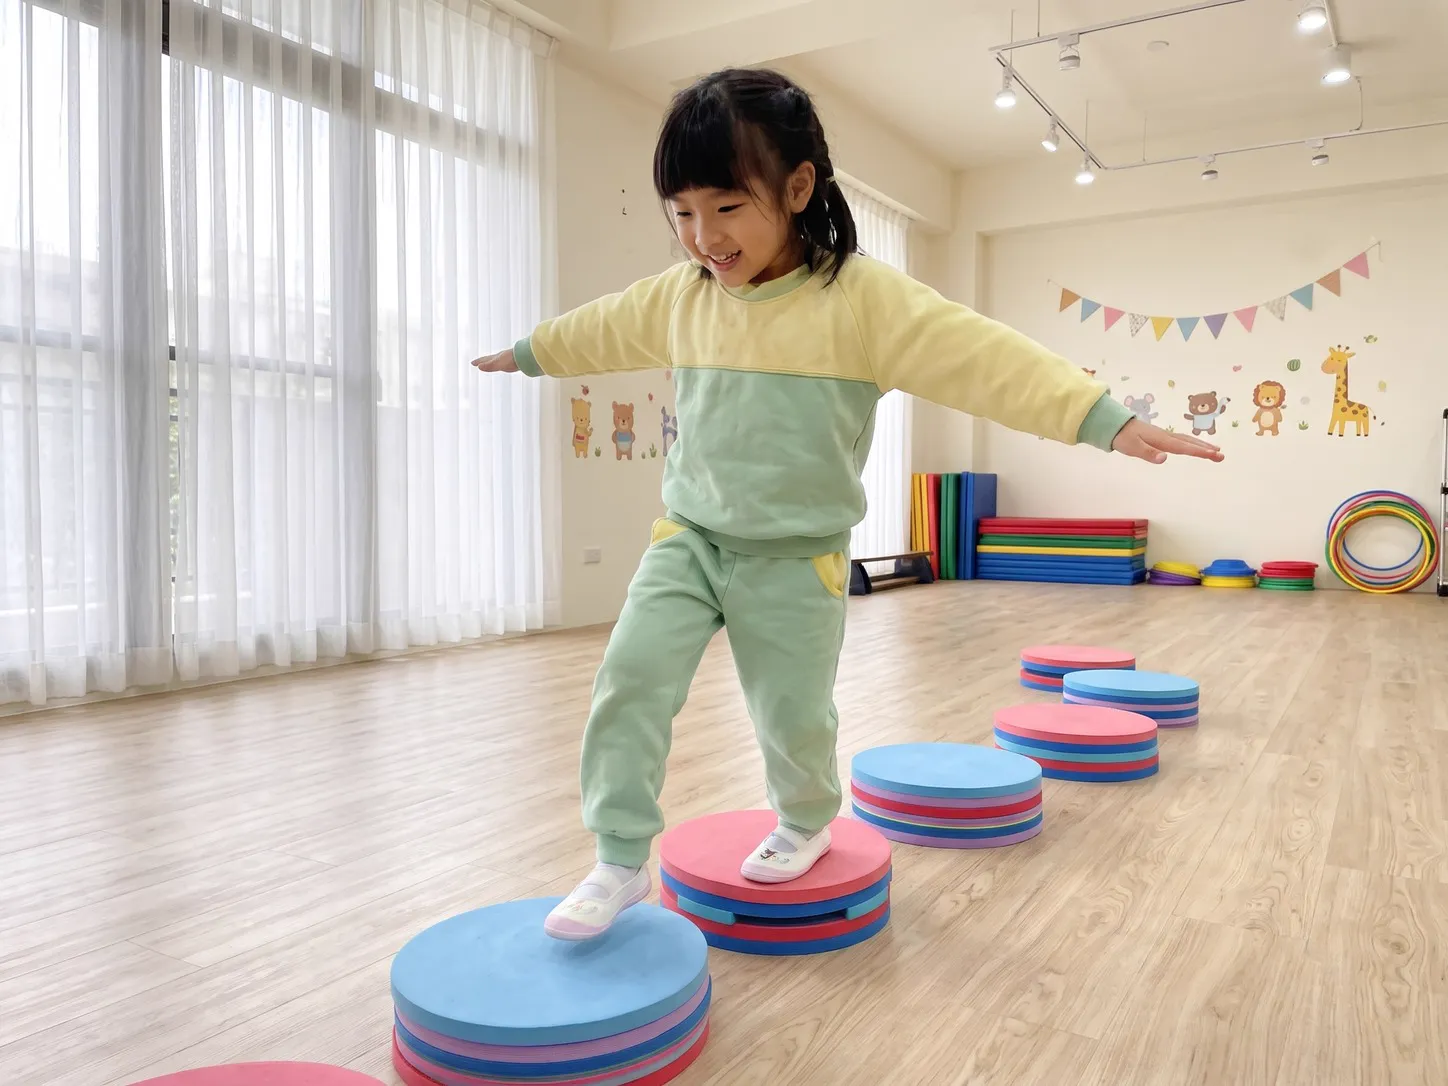
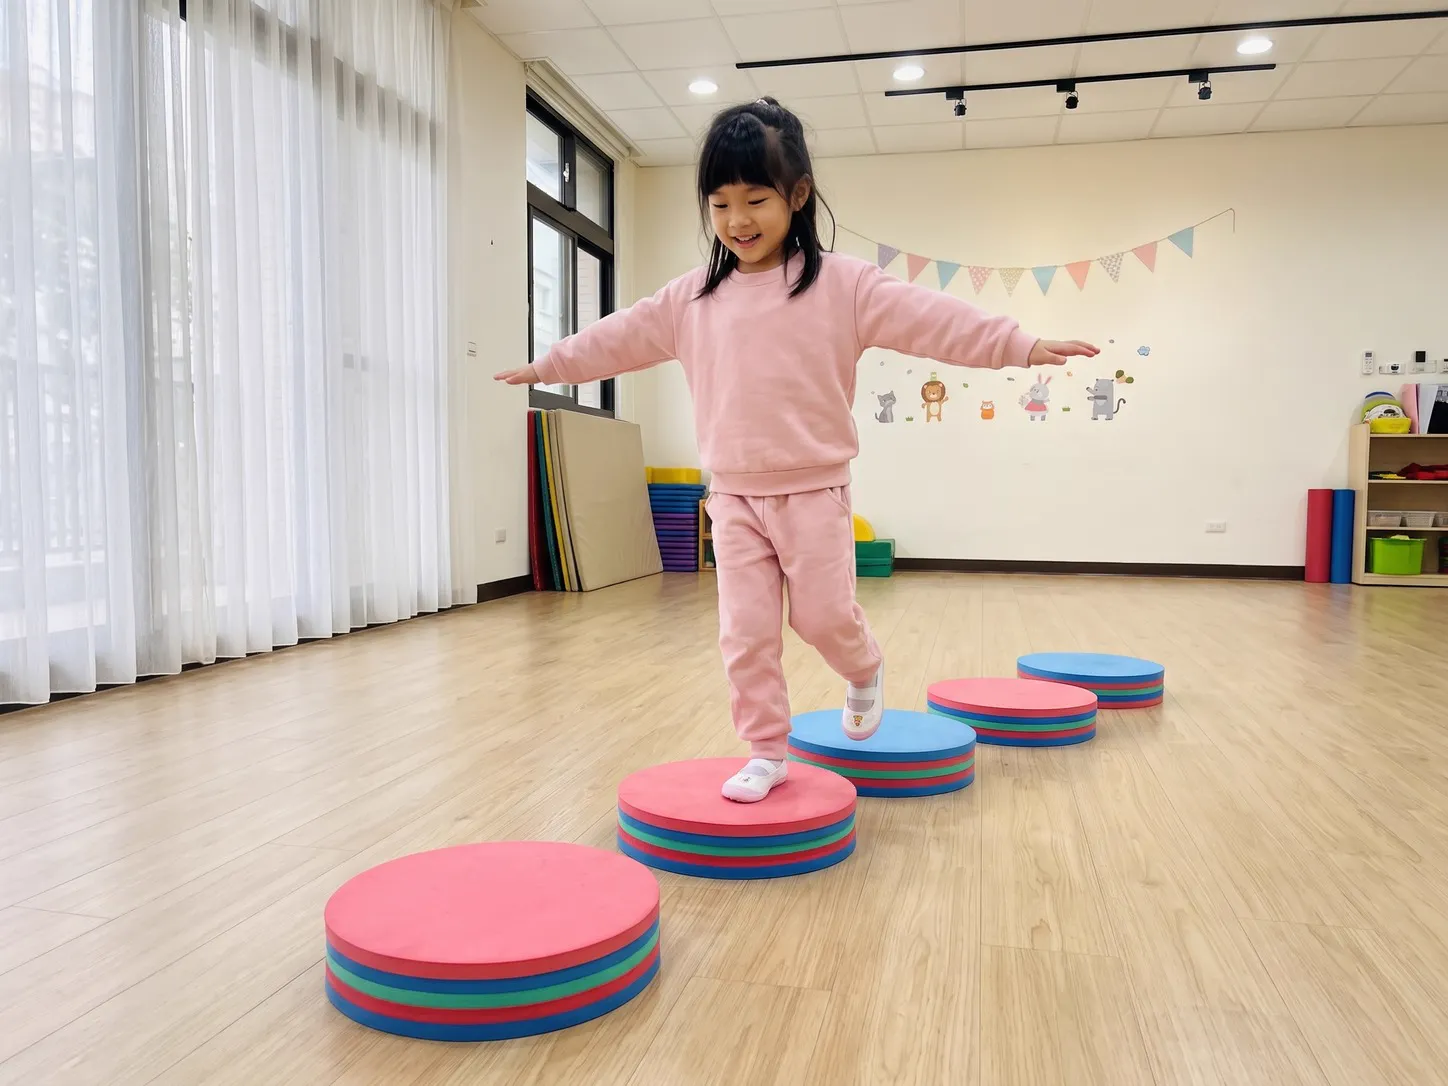
feat(p06): 上架踏點平衡雙圖（呈現版在前素面衣服、忠實版在後），已跑 make-variants

diff --git a/assets/plays.js b/assets/plays.js
@@ -63,7 +63,7 @@ const PLAYS = {
       steps: ["老師將兩個厚瑪卡龍並排穿在軸管上，裝上 U 型長把手。", "孩子站在把手後面，雙手握住紅色橫桿。", "推著車走到終點，繞過標誌物再推回起點交棒。"],
       safety: "前方留出空位，握穩橫桿慢慢推，不要在別人腳邊或後方推車。",
       easier: "縮短距離走直線，老師在旁邊扶住車輪穩定方向。", harder: "改成蛇行繞過角標，或推著車倒退走回起點。" },
-    { name: "踏點平衡", photo: "p06/real-3-step.jpg", pos: "center 50%", type: "排隊", age: ["小幼", "中大"], limit: [],
+    { name: "踏點平衡", photos: ["p06/real-3-step.jpg", "p06/real-3-step-faithful.jpg"], pos: "center 50%", type: "排隊", age: ["小幼", "中大"], limit: [],
       skills: ["動態平衡", "跨步控制", "核心穩定"], props: ["瑪卡龍圓盤 4～6 個"],
       intro: "多個厚瑪卡龍圓盤平放在木地板上排成彎曲路徑，孩子張開雙臂像小鳥展翅保持平衡，一格一格跨步踩石過河。",
       steps: ["老師將 4～6 個厚瑪卡龍圓盤平鋪在木地板上，前後保留約一步間距排成步道。", "孩子站在起點圓盤上，雙臂向兩側水平平舉張開保持平衡。", "眼睛專注看前方，依序跨步踩到下一個圓盤，走完全程抵達終點。"],
